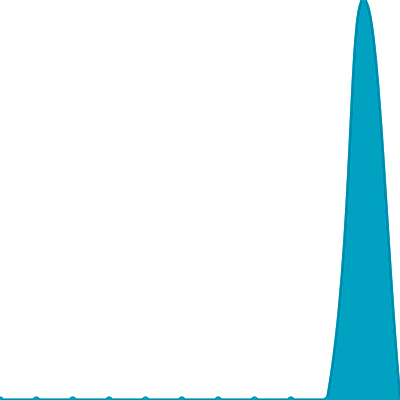
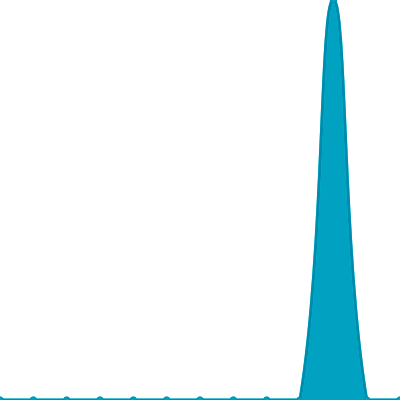
Update views

diff --git a/README.md b/README.md
@@ -26,7 +26,7 @@ The project created and maintained by [gayanvoice](https://github.com/gayanvoice
 			</a>
 		</td>
 		<td>
-			2023/11/29 1:07 AM UTC
+			2023/11/30 1:06 AM UTC
 		</td>
 		<td>
 			1
@@ -37,7 +37,7 @@ The project created and maintained by [gayanvoice](https://github.com/gayanvoice
 	</tr>
 </table>
 
-<small><i>Last updated on 2023/12/1 6:18 PM UTC</i></small>
+<small><i>Last updated on 2023/12/2 1:04 AM UTC</i></small>
 
 ## ✂Copy and 📋 Paste
 ### Total Views Badge

diff --git a/readme/706229382/year.md b/readme/706229382/year.md
@@ -20,6 +20,17 @@
 	</tr>
 	<tr>
 		<td>
+			<code>2023/12/1</code>
+		</td>
+		<td>
+			<code>0</code>
+		</td>
+		<td>
+			<code>0</code>
+		</td>
+	</tr>
+	<tr>
+		<td>
 			<code>2023/11/1</code>
 		</td>
 		<td>
@@ -153,7 +164,7 @@
 </table>
 
 </details>
-<small><i>Last updated on 2023/12/1 6:18 PM UTC</i></small>
+<small><i>Last updated on 2023/12/2 1:03 AM UTC</i></small>
 
 ## ✂Copy and 📋 Paste
 ### SVG Badge
